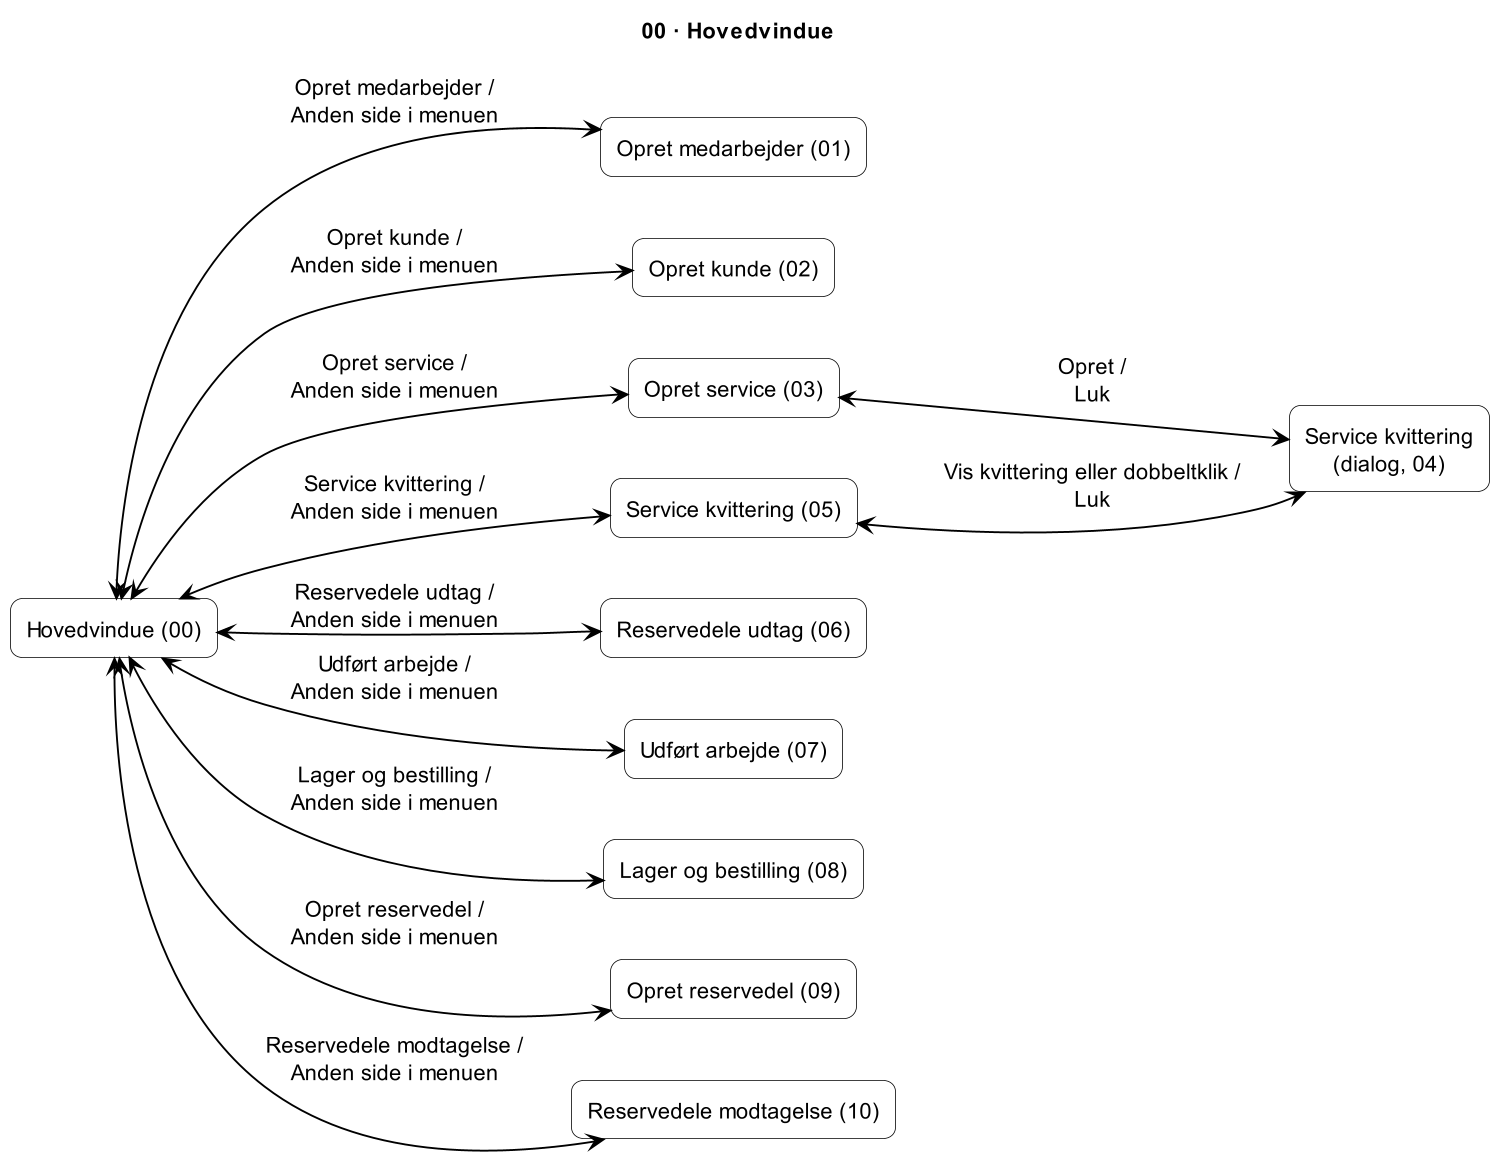
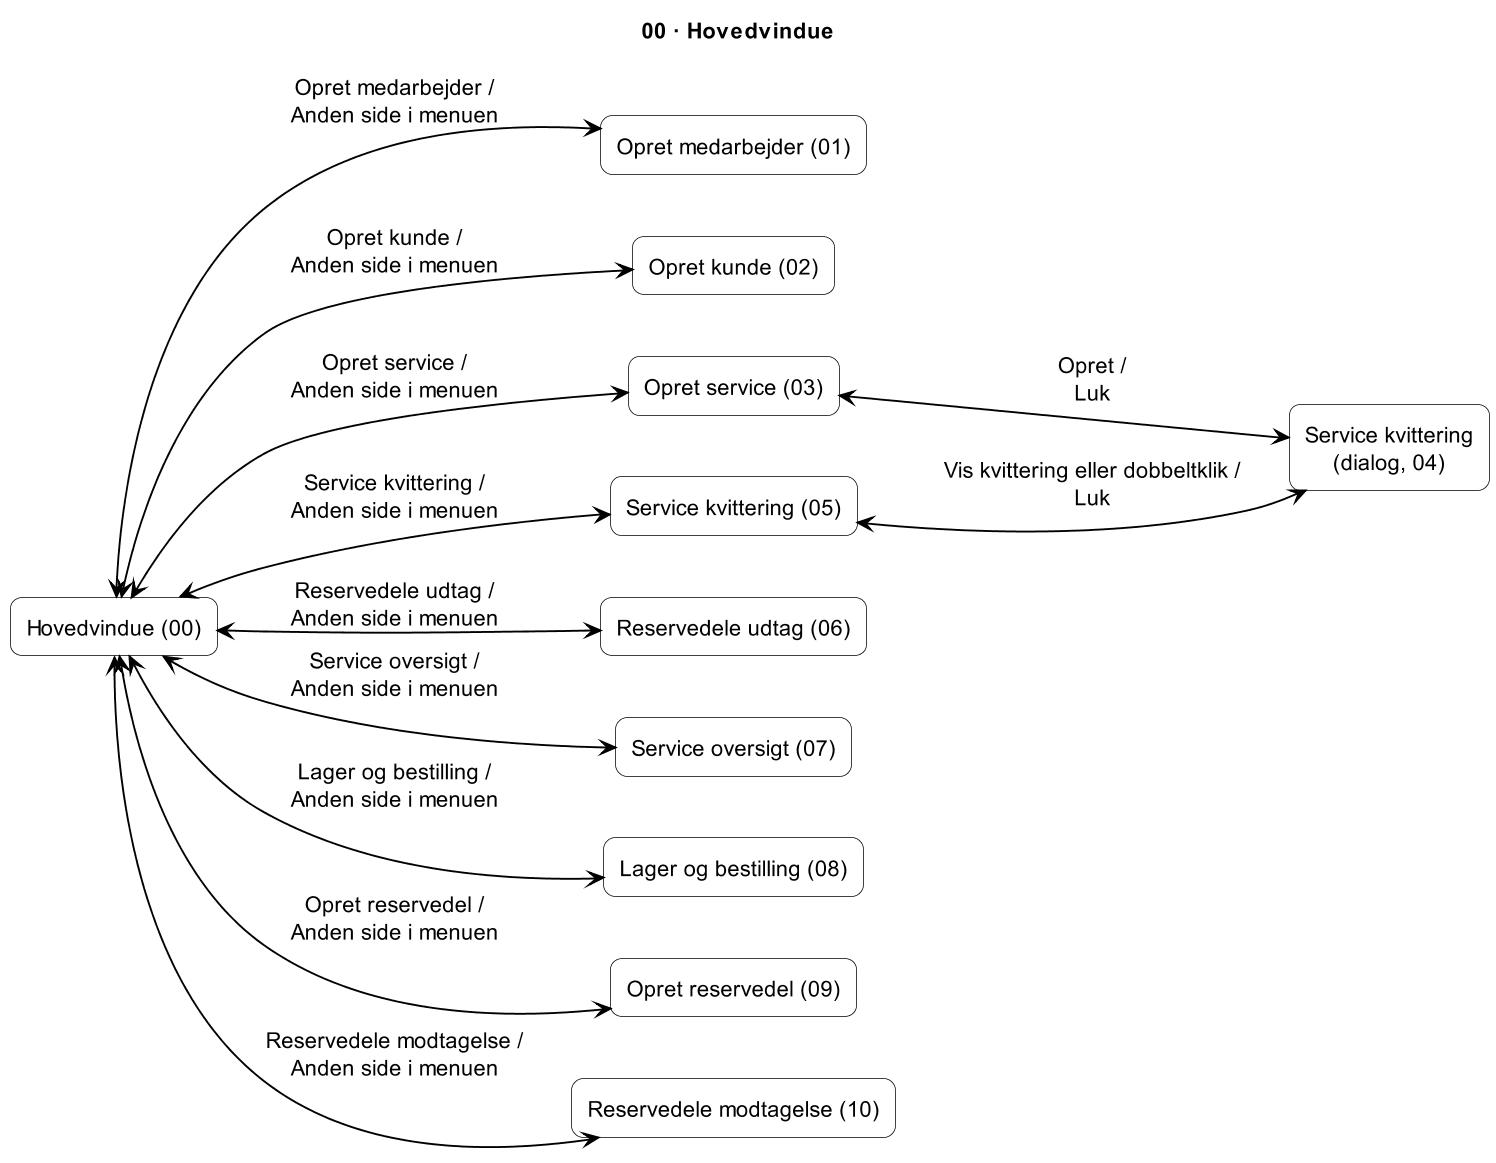
udførtarbejde -> status oversigt1

diff --git a/5. System Operation Contract/UC5_service_oversigt.md b/5. System Operation Contract/UC5_service_oversigt.md
@@ -1,0 +1,9 @@
+# CO5 – Service oversigt over reparationer
+
+| Felt | Hvad skriver vi |
+|---|---|
+| Nummer | CO5 |
+| Operation | registrerUdfoertArbejde(reparationsnummer: String, medarbejderInitialer: String, beskrivelse: String) |
+| Krydsreferencer | UC5 Service oversigt over reparationer |
+| Forudsætninger | Programmet er startet. Der findes en åben Reparationsordre med reparationsnummer (UC3). Der findes en Medarbejder med medarbejderInitialer (UC1). Beskrivelsen er udfyldt. |
+| Slutbetingelser | Reparationsordre.udførtArbejde blev sat til beskrivelse. Reparationsordren blev associeret med den valgte Medarbejder. Reparationsordre.status blev ændret fra Åben til Lukket. |

diff --git a/1. Usecases/UC1 Opret Medarbejder.md b/1. Usecases/UC1 Opret Medarbejder.md
@@ -39,4 +39,4 @@ Felter: **Navn**, **Initialer**, knap **Opret**. Eksempel: *John Pedersen, JP*.
 ## Relaterede begreber og artefakter
 
 - Begreber: Medarbejder, Initialer (se [ordliste](../0.%20Ordliste/ordliste.md))
-- Bruges af: UC5 Udført Arbejde På Reparationen, UC6 Reservedele Udtag Fra Lageret
+- Bruges af: UC5 Service oversigt over reparationer, UC6 Reservedele Udtag Fra Lageret

diff --git a/1. Usecases/UC5 Service Oversigt.md b/1. Usecases/UC5 Service Oversigt.md
@@ -37,6 +37,6 @@ Felter: **Vælg Service (reparationsnummer)**, **Vælg medarbejder** (dropdown/s
 
 ## Relaterede begreber og artefakter
 
-- Begreber: Udført arbejde, Status (se [ordliste](../0.%20Ordliste/ordliste.md))
+- Begreber: Service oversigt, Status (se [ordliste](../0.%20Ordliste/ordliste.md))
 - Forudsætter: UC1, UC3
 - Vises i: UC4
